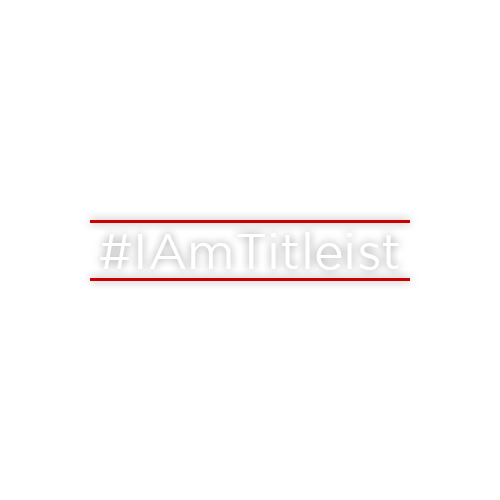
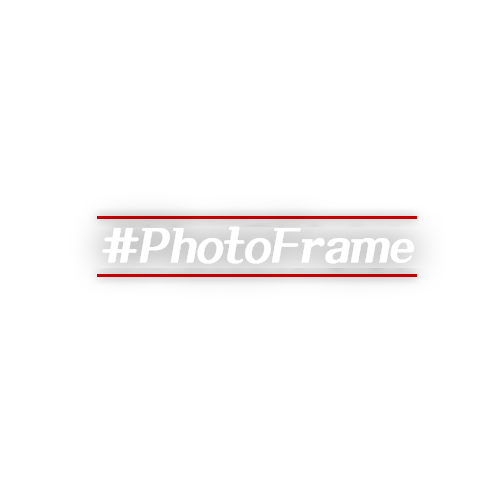
image file changed

Changed region(s): [[0.18, 0.42, 0.84, 0.57]]

diff --git a/index.html b/index.html
@@ -17,12 +17,12 @@
 		<div class="imDimmed z_index_3" style=""></div>
 		<div class="imPopup z_index_2 step1Frame" > <!-- z_index_2 OR z_index_3 -->
 			<div class="imPopBox">
-				<p class="hashtag"><span>#프레임포토다운</span></p>
+				<p class="hashtag"><span>#FramePhoto</span></p>
 
 				<ul class="popText">
-					<li class="photoFrameStep1"><strong>1.</strong> 사진을 업로드합니다.</li>
-					<li class="photoFrameStep1"><strong>2.</strong> 업로드한 사진을 드래그 이동 및 확대/축소하여 알맞은 위치로 이동시켜주세요.</li>
-					<li class="photoFrameStep2"><strong>3.</strong> 사진 프레임을 선택하고 이미지를 다운로드하세요. (모바일은 이미지 다운로드 버튼 클릭 시 이동되는 링크에서 이미지를 꾹 눌러 저장하실 수 있습니다.)</li>
+					<li class="photoFrameStep1"><strong>1.</strong> Upload your photo or picture.</li>
+					<li class="photoFrameStep1"><strong>2.</strong> Using cropper, Positioning your photo and picture what you want to.</li>
+					<li class="photoFrameStep2"><strong>3.</strong> Select photo frame and download your image. ( In explorer 10, edge and mobile brower, you can get your image on new page. )</li>
 				</ul>
 
 				<div class="popImageArea">
@@ -30,72 +30,72 @@
 						<div class="userUpload ">
 							<div class="uploadImg" style="width:100%;height:100%;"></div>
 							<span class="frameArea photoFrameStep2"><img src="img/frame1.png" alt=""></span> <!-- frame1.png ~ frame6.png -->
-							<img src="img//noneUpload.png" alt="" style="display:none;"> <!-- 업로드 없을 때 디폴트 이미지 -->
+							<img src="img//noneUpload.png" alt="" style="display:none;"> <!-- default image -->
 						</div>
 
 						<div class="imBtnArea">
 							<p class="uploadBtn photoFrameStep1">
 								<span class="file_input">
-									<input type="button" value="이미지 업로드" class="file_input_button">
+									<input type="button" value="image upload" class="file_input_button">
 									<input type="file" class="file_input_hidden" id="fileInput" accept="image/*">
 								</span>
 							</p>
-							<p class="nextBackBtn goStep2 photoFrameStep1"><a href="javascript:;">다음</a></p>
-							<p class="downloadBtn photoFrameStep2"><a href="javascript:;"><span>이미지 다운로드</span></a></p>
-							<p class="nextBackBtn goStep1 photoFrameStep2"><a href="javascript:;">돌아가기</a></p>
+							<p class="nextBackBtn goStep2 photoFrameStep1"><a href="javascript:;">next</a></p>
+							<p class="downloadBtn photoFrameStep2"><a href="javascript:;"><span>image download</span></a></p>
+							<p class="nextBackBtn goStep1 photoFrameStep2"><a href="javascript:;">go back</a></p>
 						</div>
 
 						<div class="imFrame swiper-container photoFrameStep2">
 							<ul class="swiper-wrapper">
 								<li class="swiper-slide">
-									<input type="radio" id="frame1" name="frame" value="프레임 타입1" checked="">
+									<input type="radio" id="frame1" name="frame" value="frameType1" checked="">
 									<label for="frame1"><span class="frame1"><strong></strong></span></label>
 								</li>
 						
 								<li class="swiper-slide">
-									<input type="radio" id="frame2" name="frame" value="프레임 타입2">
+									<input type="radio" id="frame2" name="frame" value="frameType2">
 									<label for="frame2"><span class="frame2"><strong></strong></span></label>
 								</li>
 						
 								<li class="swiper-slide">
-									<input type="radio" id="frame3" name="frame" value="프레임 타입3">
+									<input type="radio" id="frame3" name="frame" value="frameType3">
 									<label for="frame3"><span class="frame3"><strong></strong></span></label>
 								</li>
 						
 								<li class="swiper-slide">
-									<input type="radio" id="frame4" name="frame" value="프레임 타입4">
+									<input type="radio" id="frame4" name="frame" value="frameType4">
 									<label for="frame4"><span class="frame4"><strong></strong></span></label>
 								</li>
 						
 								<li class="swiper-slide">
-									<input type="radio" id="frame5" name="frame" value="프레임 타입5">
+									<input type="radio" id="frame5" name="frame" value="frameType5">
 									<label for="frame5"><span class="frame5"><strong></strong></span></label>
 								</li>
 						
 								<li class="swiper-slide">
-									<input type="radio" id="frame6" name="frame" value="프레임 타입6">
+									<input type="radio" id="frame6" name="frame" value="frameType6">
 									<label for="frame6"><span class="frame6"><strong></strong></span></label>
 								</li>
 							</ul>
 							<div class="swiper-pagination framePaging"></div>
 						</div>
-						<button type="button" class="frameController frameControlLeft photoFrameStep2">페이지 왼쪽 넘김</button><!-- //left button -->
-						<button type="button" class="frameController frameControlRight photoFrameStep2">페이지 오른쪽 넘김</button><!-- //right button -->
+						<button type="button" class="frameController frameControlLeft photoFrameStep2">prev page</button><!-- //left button -->
+						<button type="button" class="frameController frameControlRight photoFrameStep2">next page</button><!-- //right button -->
 
 					</div>
 				</div>
 
-				<p class="popNotice photoFrameStep1"><span>업로드한 이미지를 마우스로 드래그 이동 및 확대/축소하여 <mark>알맞은 위치로 이동시킬 수 있습니다.</mark></span></p>
+				<p class="popNotice photoFrameStep1"><span>For dragging or grabbing,  <mark>Flexibility, you can move and scale your image. </mark></span></p>
 
-				<a href="#" class="popClose">닫기</a>
+				<a href="#" class="popClose">close</a>
 			</div>
 		</div>
 		<!-- SUCCESS DOWNLOAD -->
 		<div class="downSuccessPopup z_index_1" style="display: none;"> <!-- z_index_1 ONLY -->
 			<div class="imPopBox">
-				<p class="successMsg">다운로드가<br />완료되었습니다.</p>
+				<p class="successMsg">download<br />complete</p>
 				<p class="successBtn">
-					<a href="#">확인</a>
+					<a href="#">ok</a>
 				</p>
 			</div>
 		</div>
